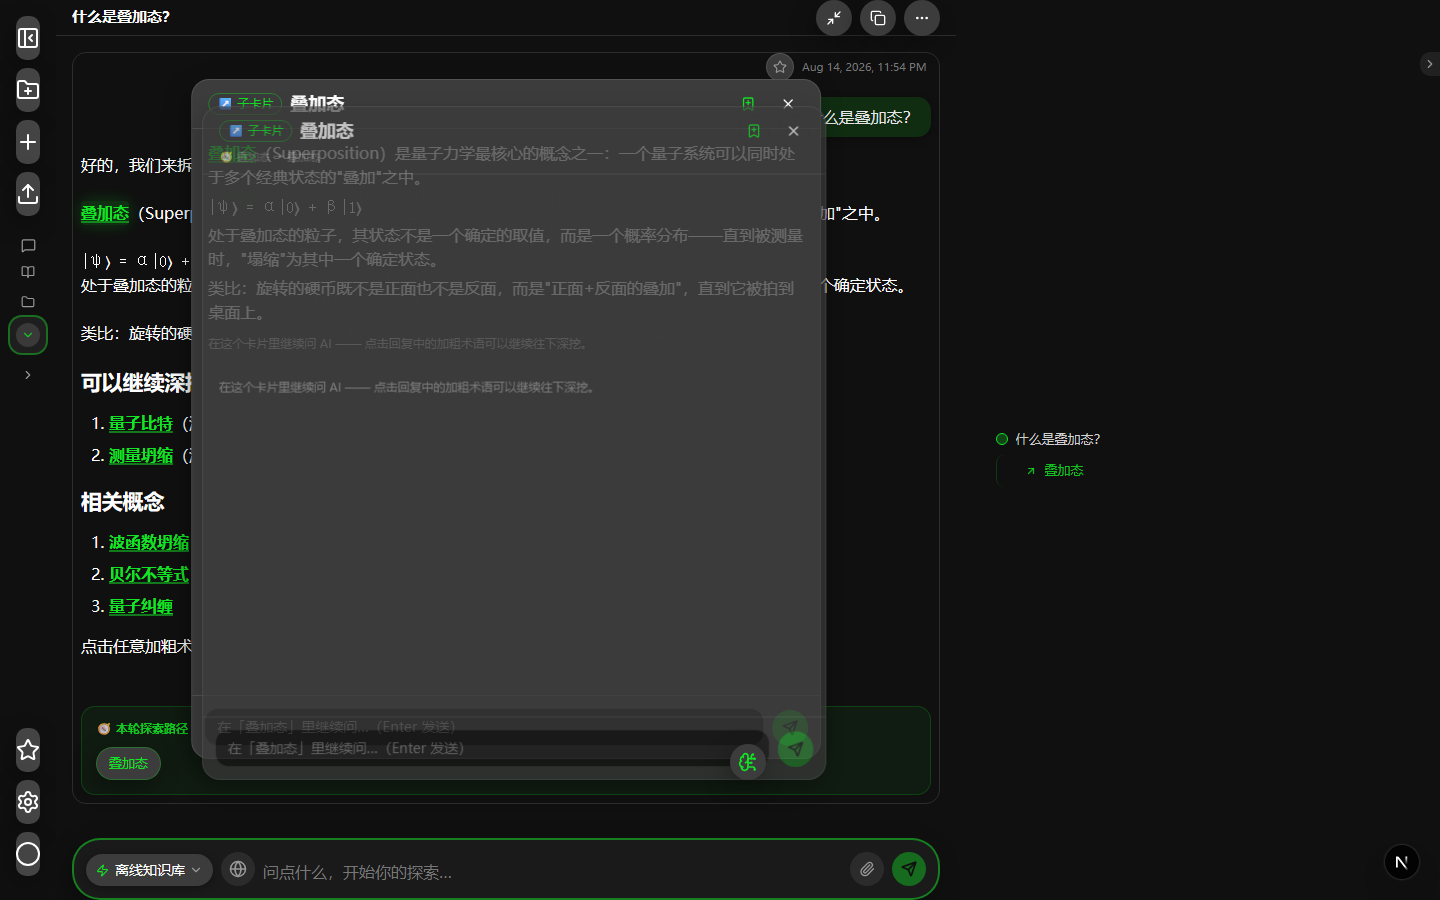
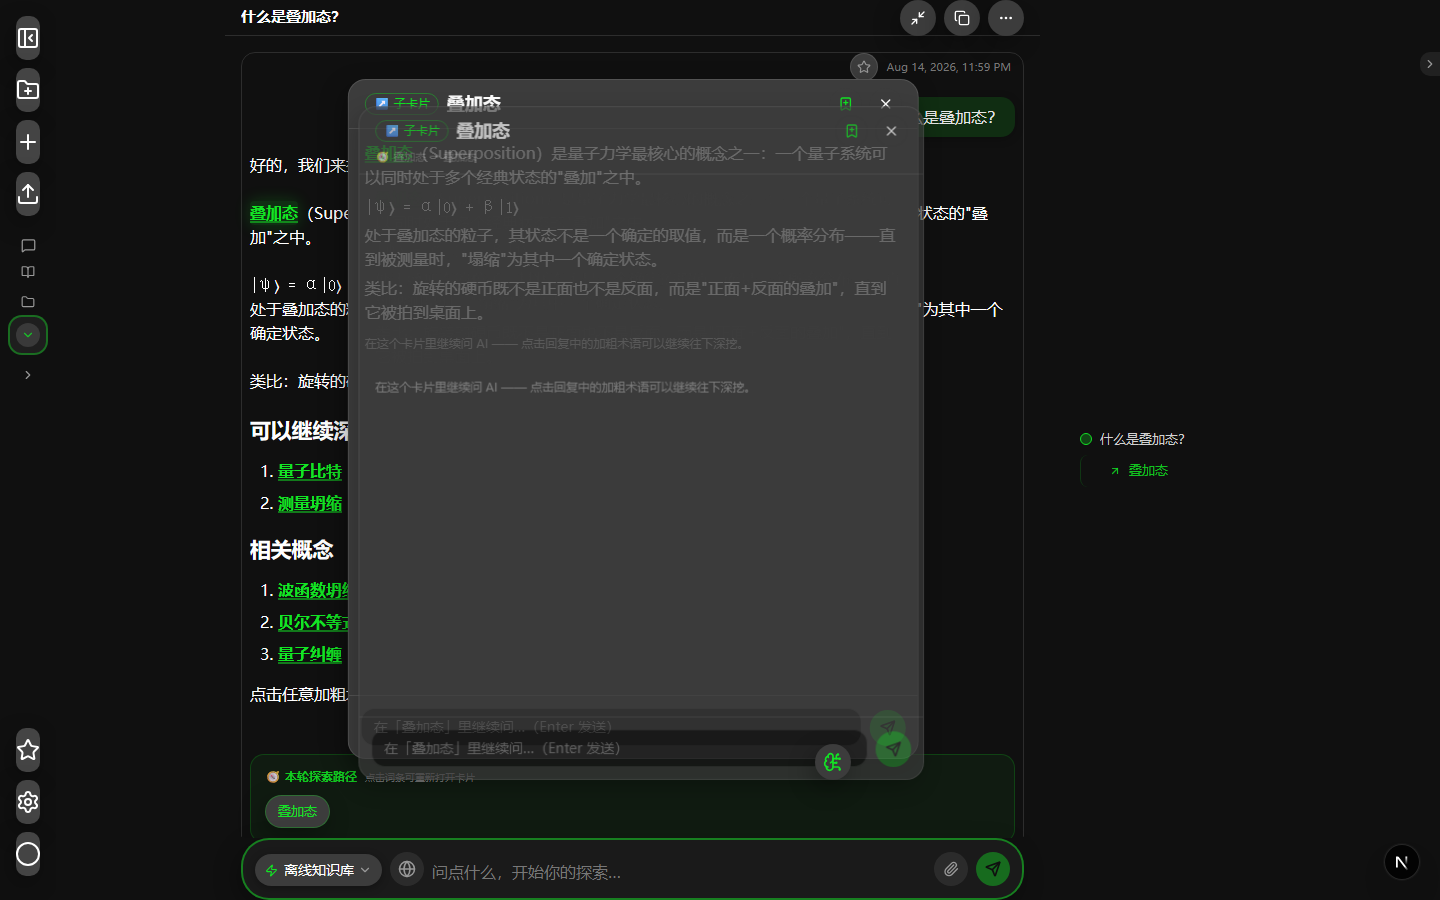
对话框+卡片树固定在页面居中位置：侧边栏回到悬浮式，折叠展开不再带动两者移动

diff --git a/src/components/sites/ai-explore-poker-820d0558/shell.tsx b/src/components/sites/ai-explore-poker-820d0558/shell.tsx
@@ -69,9 +69,9 @@ export function AppShell() {
 
   return (
     <div className="fixed inset-0 flex overflow-hidden overscroll-none bg-bg">
-      {/* ---- Sidebar: 桌面端为真实占位列（不遮挡对话框）；移动端 off-canvas 抽屉 ---- */}
+      {/* ---- Sidebar: 悬浮式（桌面端 overlay，不占流，不挤压对话框；移动端抽屉） ---- */}
       <div
-        className={`fixed inset-y-0 left-0 z-40 h-full shrink-0 overflow-hidden bg-bg transition-all duration-200 sm:static sm:z-auto sm:translate-x-0 sm:bg-transparent ${
+        className={`fixed inset-y-0 left-0 z-40 h-full shrink-0 overflow-hidden bg-bg transition-all duration-200 sm:absolute sm:translate-x-0 sm:bg-transparent ${
           collapsed ? "w-[56px]" : "w-[225px]"
         } ${mobileOpen ? "translate-x-0" : "-translate-x-full"}`}
       >
@@ -87,8 +87,9 @@ export function AppShell() {
         />
       )}
 
-      {/* ---- Main row: 对话区 | 轮次导航卡片树 | 思维宇宙（贴最右） ---- */}
-      <main className="relative flex min-w-0 flex-1 overflow-hidden">
+      {/* ---- Main row：固定让出侧边栏宽度（lg:pl-[225px]），对话框+卡片树
+            保持页面居中，不随侧边栏折叠移动 ---- */}
+      <main className="relative flex min-w-0 flex-1 overflow-hidden lg:pl-[225px]">
         {/* 对话区（聊天卡片在其中居中，最大 990px） */}
         <div className="relative z-10 flex h-full min-w-0 flex-1 flex-col">
           {/* Mobile hamburger — opens the sidebar drawer */}
@@ -102,17 +103,12 @@ export function AppShell() {
           </button>
 
           {/* Main canvas column: content area + bottom input bar。
-              右侧预留空间给卡片树；侧边栏折叠时把释放宽度的一半留给右侧（484.5px），
-              对话框与卡片树一起向左平滑滑动（transition-[padding-right] 同步） */}
-          <div
-            className={`relative z-10 flex h-full flex-col transition-[padding-right] duration-200 lg:pr-[400px] ${
-              collapsed ? "lg:pr-[484.5px]" : ""
-            }`}
-          >
+              右侧预留 400px 给卡片树（锚定对话框右缘） */}
+          <div className="relative z-10 flex h-full flex-col lg:pr-[400px]">
             <div className="relative mx-auto min-h-0 w-full max-w-[990px] flex-1">
               {content}
 
-              {/* 轮次导航卡片树：贴着对话框右缘，跟随对话框一起滑动 */}
+              {/* 轮次导航卡片树：贴着对话框右缘 */}
               <div className="absolute bottom-0 left-full top-0 ml-5 hidden w-[380px] flex-col pr-5 lg:flex">
                 <div
                   className="my-auto max-h-[70%] overflow-y-auto overflow-x-hidden pt-[8vh]"
